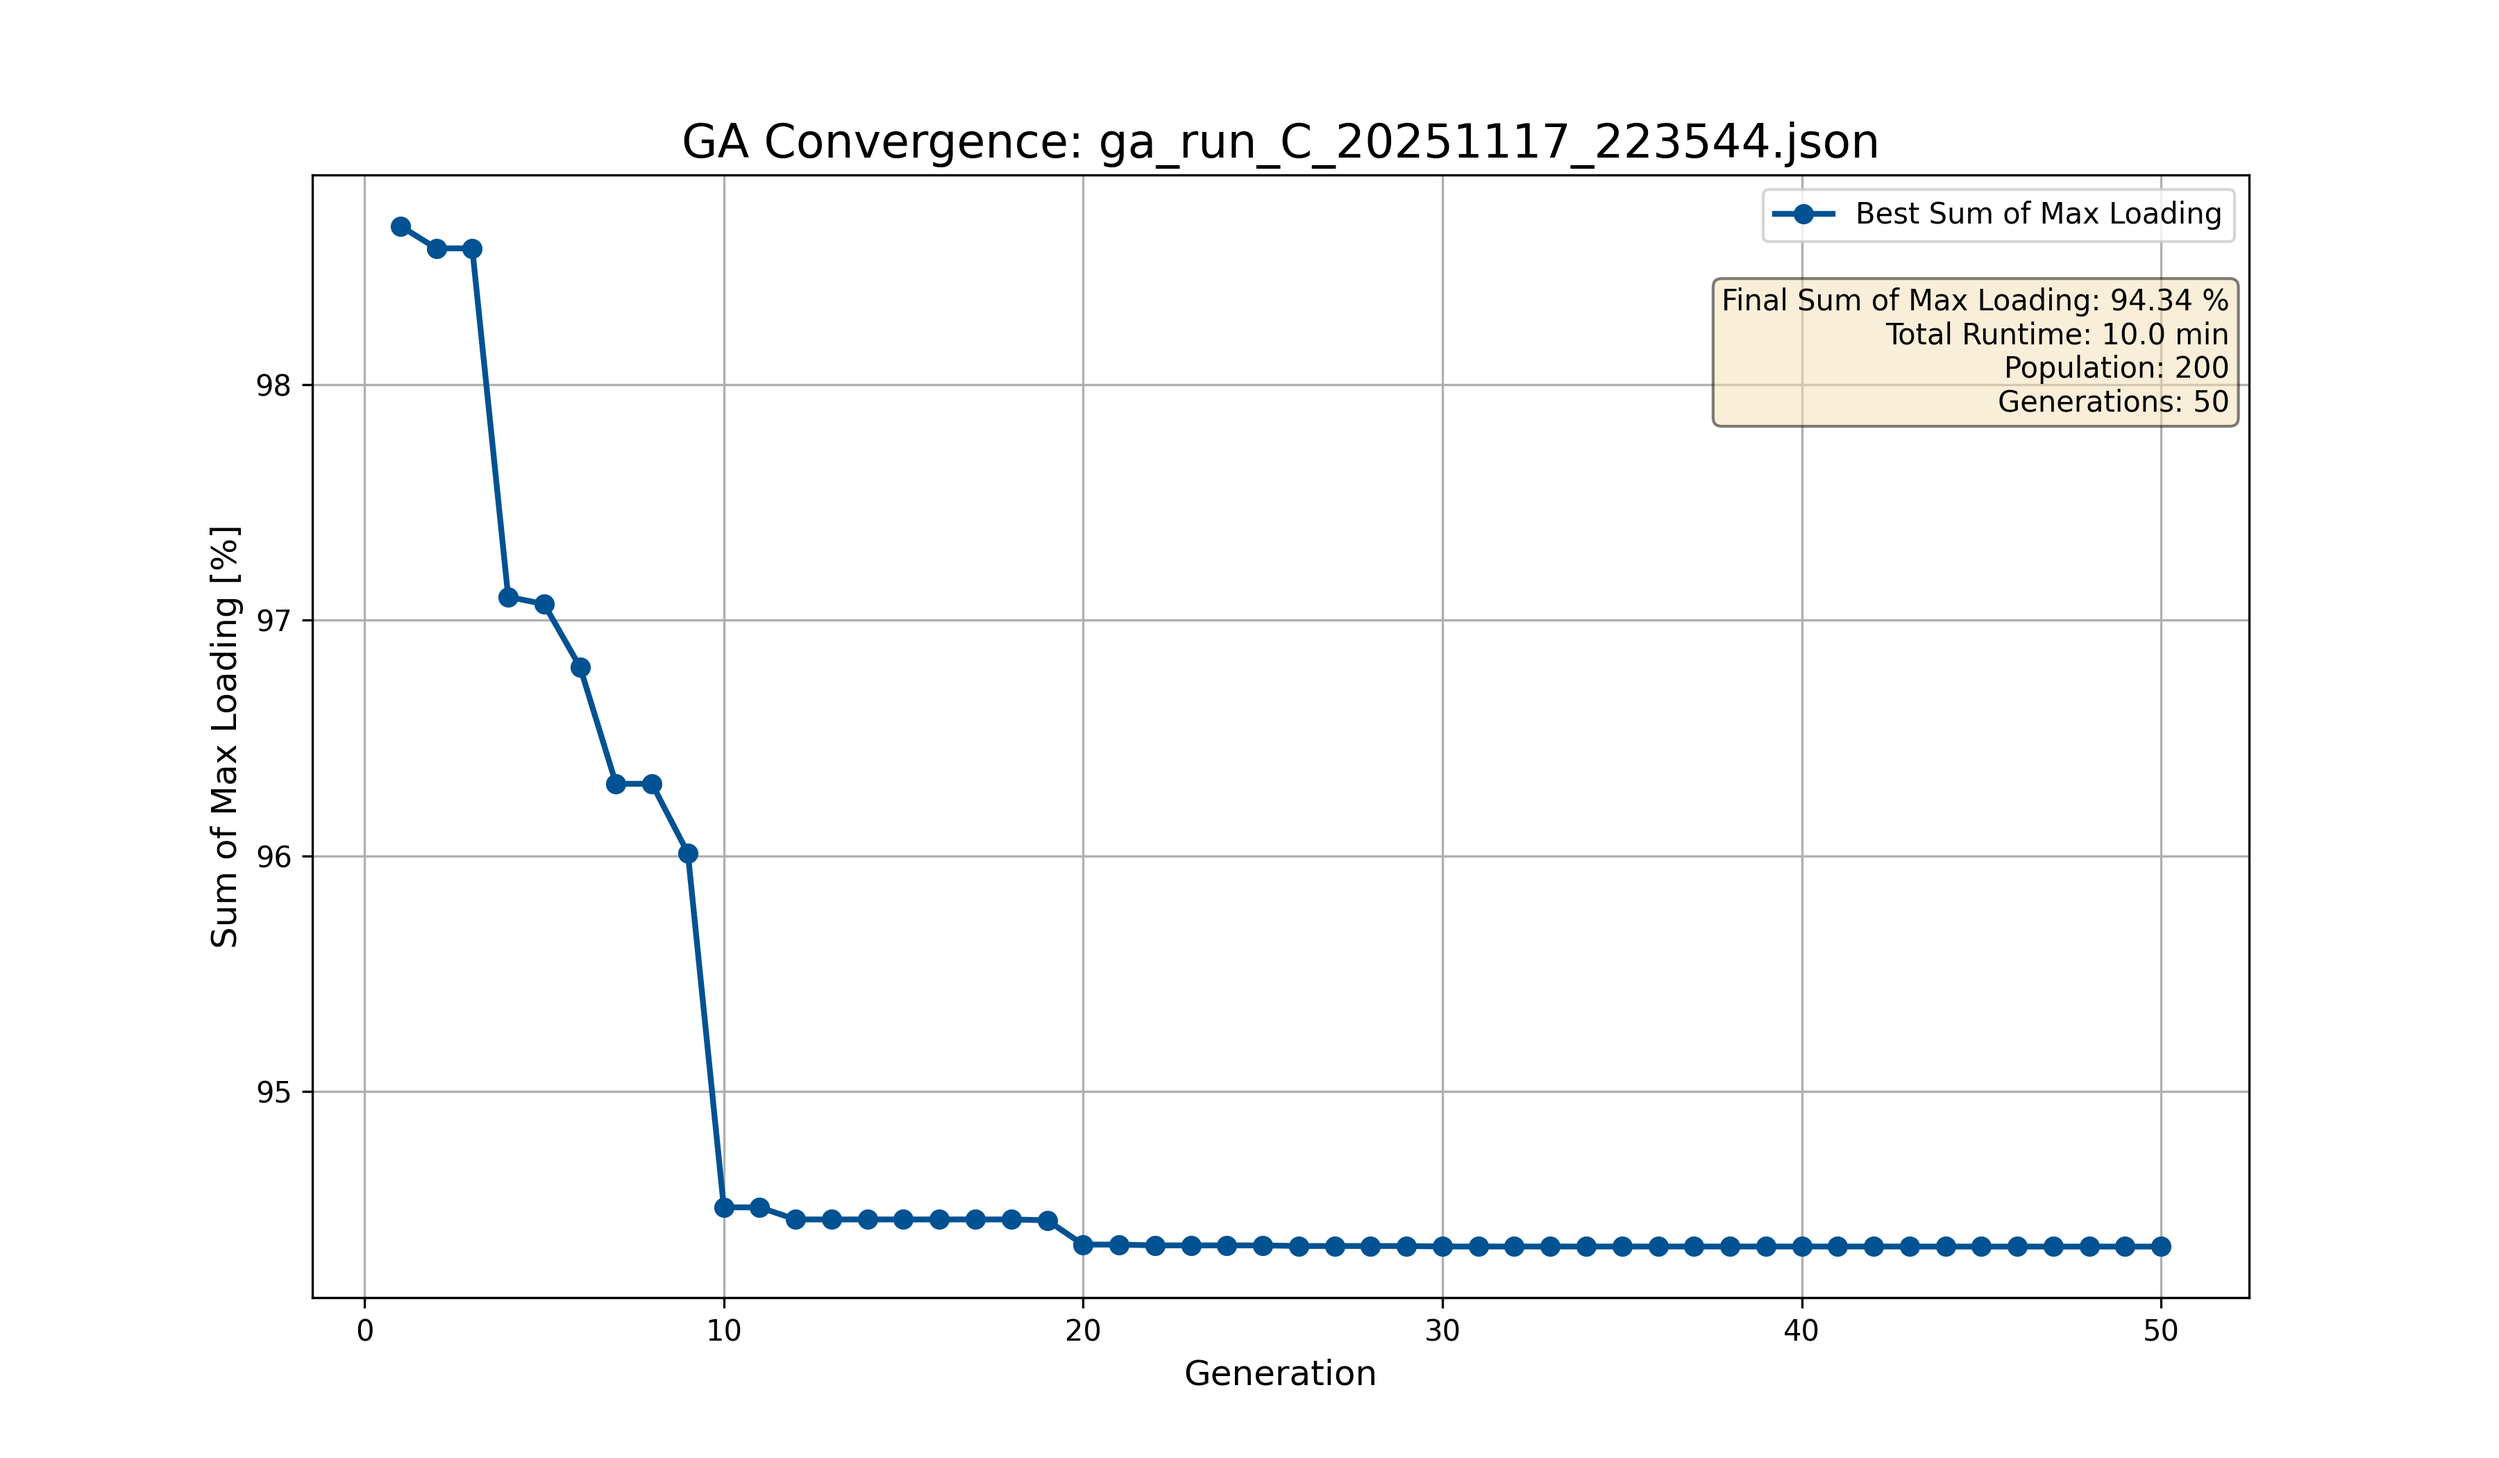
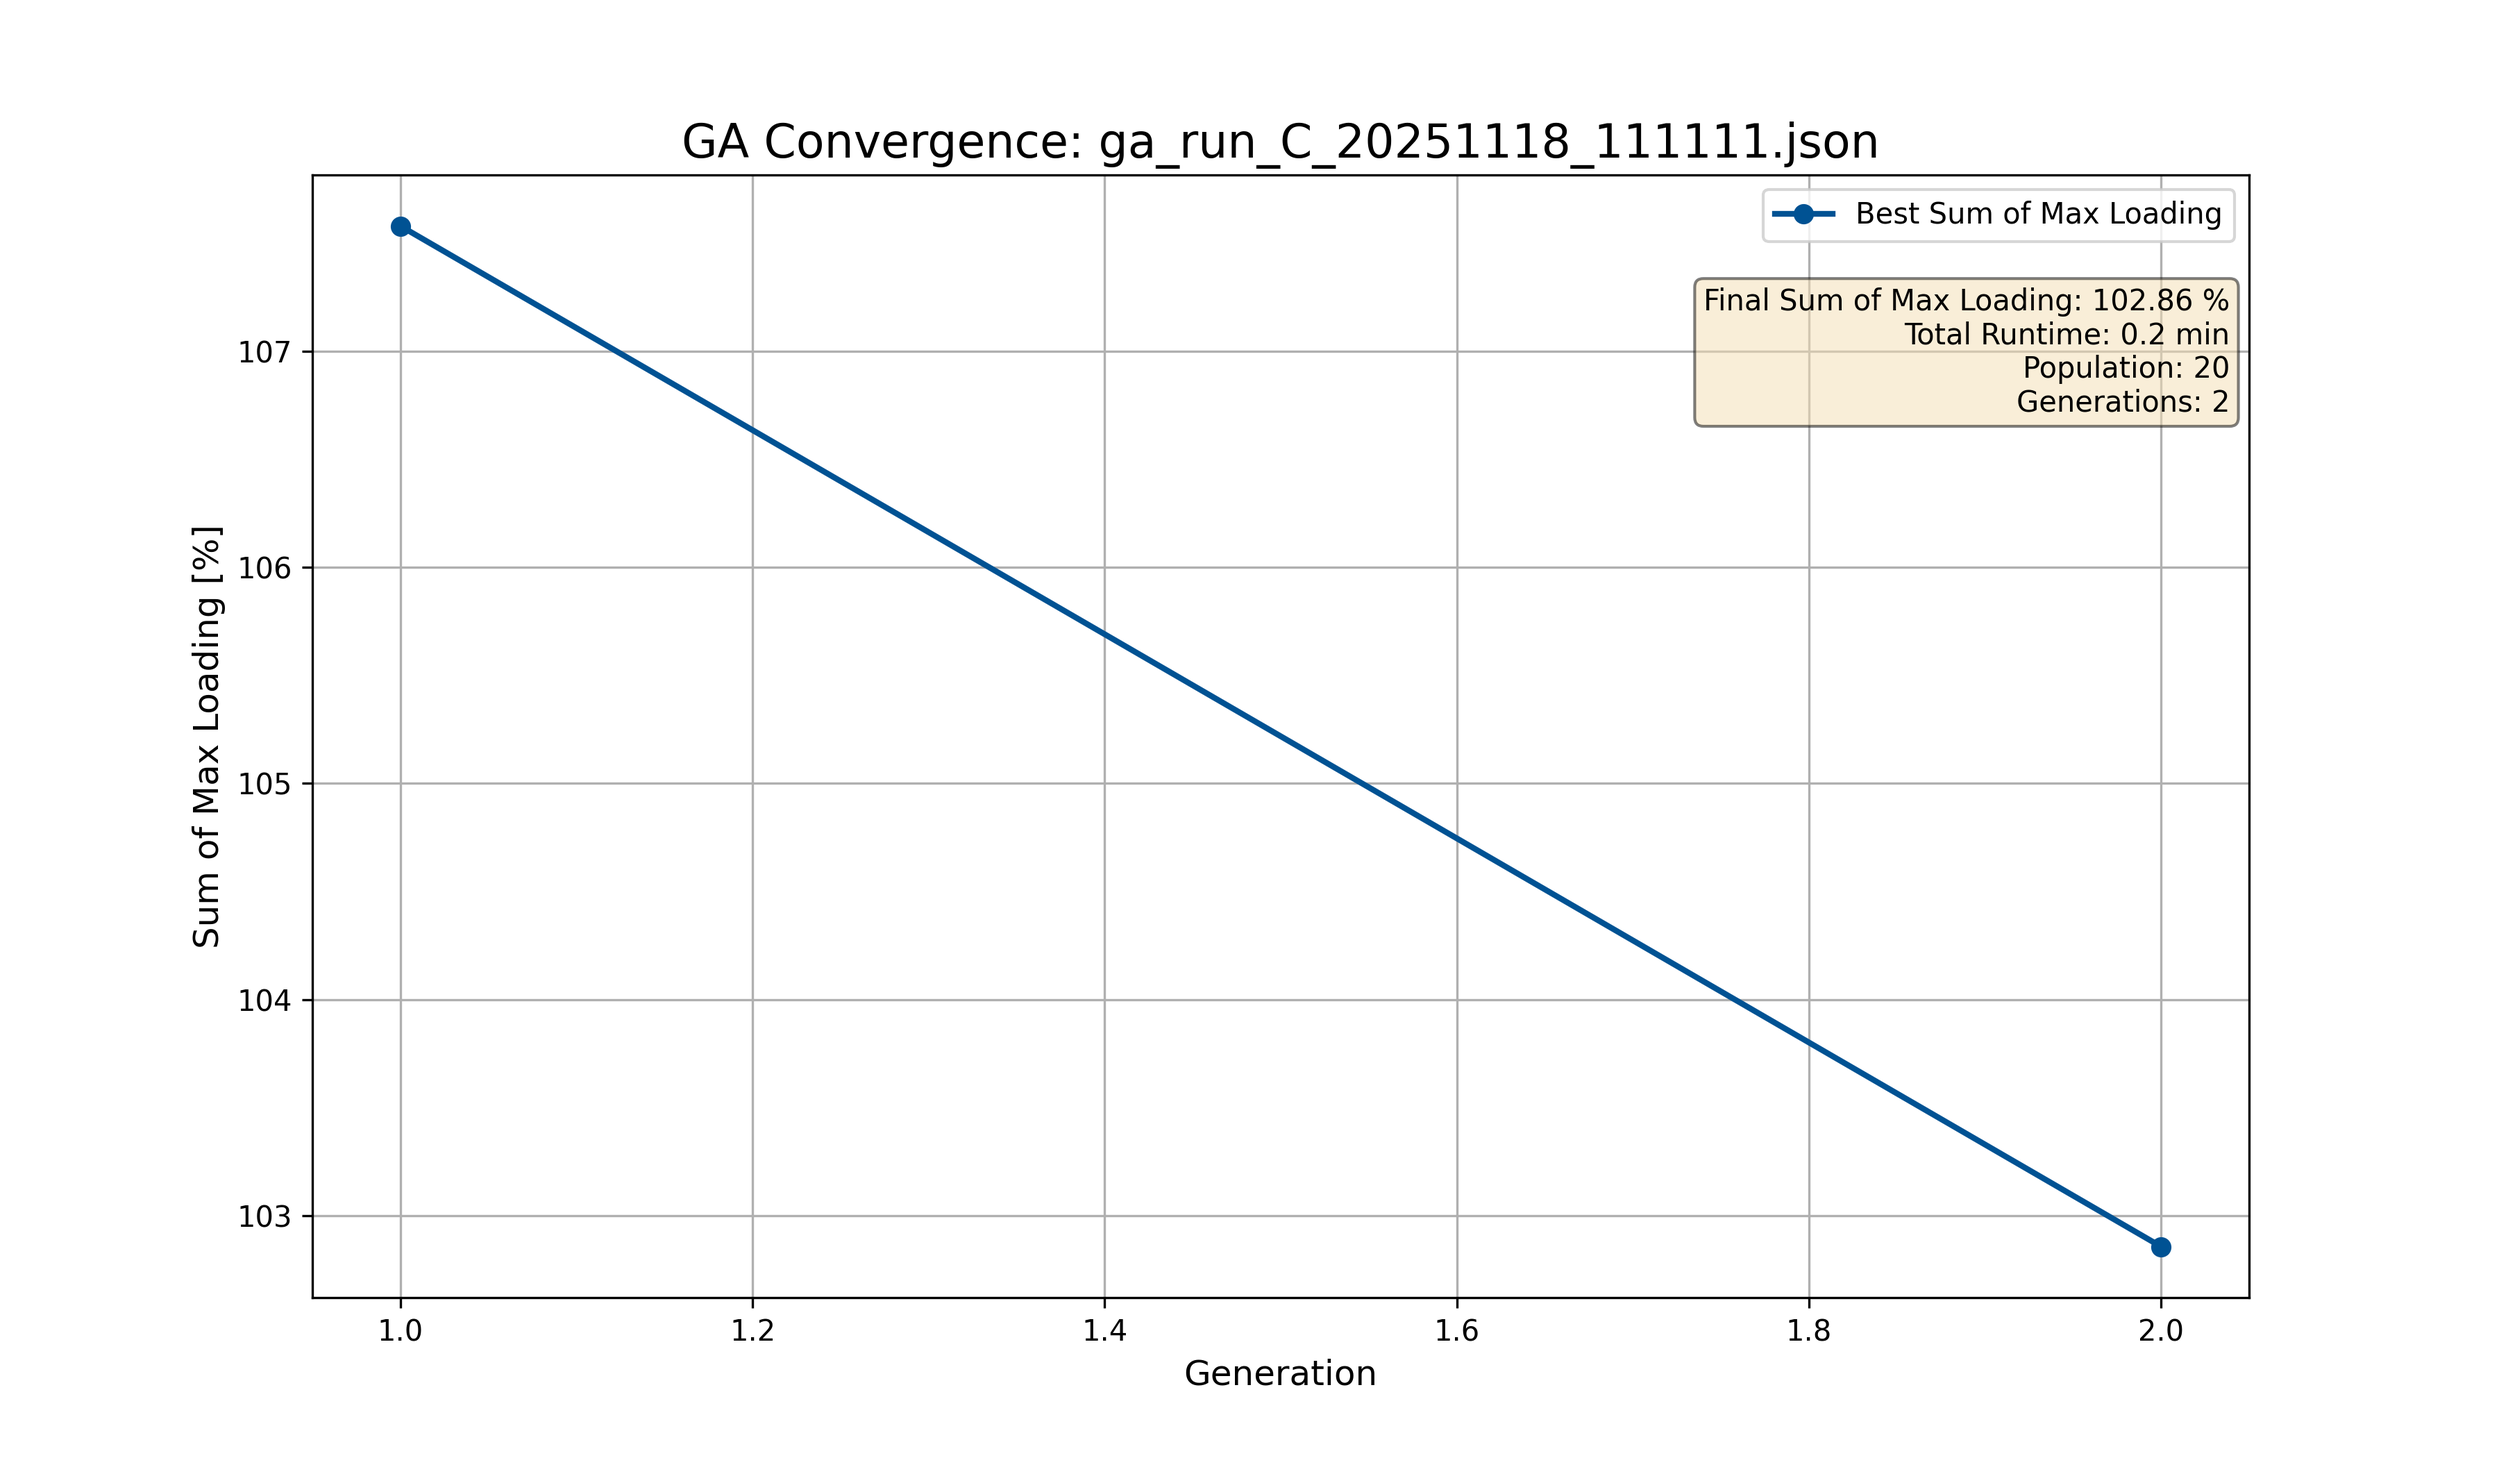
Fixed Grid C (2)

diff --git a/genetic_algorithm.py b/genetic_algorithm.py
@@ -70,7 +70,7 @@ def create_grid_B():
     
     return net
 
-def get_base_indices(net) -> tuple[list[int], list[int]]: 
+def get_base_indices(net, num_profiles=NUM_PROFILES) -> tuple[list[int], list[int]]: 
     """
     Get the order of node indices to be optimized.
     Assumes they are indexed 0 to 16.
@@ -78,8 +78,8 @@ def get_base_indices(net) -> tuple[list[int], list[int]]:
     index_order_load = list(net.load.index)
     index_order_gen = list(net.sgen.index)
 
-    if len(index_order_load) != NUM_PROFILES or len(index_order_gen) != NUM_PROFILES:
-        print(f"ERROR: Grid must have exactly {NUM_PROFILES} load/generation nodes.")
+    if len(index_order_load) != num_profiles or len(index_order_gen) != num_profiles:
+        print(f"ERROR: Grid must have exactly {num_profiles} load/generation nodes.")
     
     return tuple([index_order_load, index_order_gen]) # type: ignore
 
@@ -187,7 +187,9 @@ def tournament_selection(population: list[tuple[list[int], list[int]]],
     winner_index = np.argmax(tournament_fitnesses)
     return tournament_allocations[winner_index]
 
-def ordered_crossover(parent1_tuple: tuple[list[int], list[int]], parent2_tuple: tuple[list[int], list[int]]) -> tuple[list[int], list[int]]:
+def ordered_crossover(parent1_tuple: tuple[list[int], list[int]], 
+                      parent2_tuple: tuple[list[int], list[int]],
+                      num_profiles=NUM_PROFILES) -> tuple[list[int], list[int]]:
     """
     "Breeds" two parents allocations to create a child, preserving the permutation.
     This is called "Ordered Crossover".
@@ -195,12 +197,11 @@ def ordered_crossover(parent1_tuple: tuple[list[int], list[int]], parent2_tuple:
     1. Take a random "slice" from parent1.
     2. Fill in the child's other slots using genes from parent2, in order, skipping duplicates.
     """
-    none_list = [None] * NUM_PROFILES
+    none_list = [None] * num_profiles
     child_tuple = (none_list.copy(), none_list.copy())
 
     # 1. Select two random crossover points
-    start, end = sorted(random.sample(range(NUM_PROFILES), 2))
-
+    start, end = sorted(random.sample(range(num_profiles), 2))
     # 2. Copy the "slice" from parent1 to the child
     child_tuple[0][start:end] = parent1_tuple[0][start:end] # type: ignore
     child_tuple[1][start:end] = parent1_tuple[1][start:end]# type: ignore
@@ -213,28 +214,29 @@ def ordered_crossover(parent1_tuple: tuple[list[int], list[int]], parent2_tuple:
     
     # for load allocation
     idx = 0
-    for i in range(NUM_PROFILES):
+    for i in range(num_profiles):
         if child_tuple[0][i] is None:
             child_tuple[0][i] = parent2_items_load[idx]# type: ignore
             idx += 1
     
     idx = 0
     # for generation allocation
-    for i in range(NUM_PROFILES):
+    for i in range(num_profiles):
         if child_tuple[1][i] is None:
             child_tuple[1][i] = parent2_items_gen[idx]# type: ignore
             idx += 1
 
     return child_tuple# type: ignore
 
-def swap_mutation(allocation: tuple[list[int], list[int]]) -> tuple[list[int], list[int]]:
+def swap_mutation(allocation: tuple[list[int], list[int]],
+                  num_profiles=NUM_PROFILES) -> tuple[list[int], list[int]]:
     """
     Introduces a random change in an allocation.
     1. Pick two random indices.
     2. Swap the values at those indices.
     """
     # Operate on copies to avoid mutating the parent allocation in-place
-    idx1, idx2 = random.sample(range(NUM_PROFILES), 2)
+    idx1, idx2 = random.sample(range(num_profiles), 2)
 
     new_load = allocation[0].copy()
     new_gen = allocation[1].copy()
@@ -289,7 +291,7 @@ def run_genetic_algorithm(net,
 
     # Fill initial allocation if not provided
     if initial_allocation is None:
-        initial_allocation = get_base_indices(net)
+        initial_allocation = get_base_indices(net, num_profiles)
     
     # --- Test the fitness function ---
     print("--- Distribution Grid Genetic Algorithm Optimization Test ---")
@@ -403,21 +405,20 @@ def run_genetic_algorithm(net,
 
             # 2. Crossover - breed the parents to create a child
             if random.random() < crossover_rate:
-                child = ordered_crossover(parent1, parent2)
+                child = ordered_crossover(parent1, parent2, num_profiles)
             else:
                 # 3. No crossover, just clone parent1
                 child = parent1
 
             # 4. Mutation - randomly mutate the child
             if random.random() < mutation_rate:
-                child = swap_mutation(child)
+                child = swap_mutation(child, num_profiles)
 
             # 5. Add the child to the new population
             new_population.append(child)
         
         # The new population becomes the current population
         population = new_population
-        print(f"Size of the new genertation {len(population)}.")
 
     # --- 4. Report the overall best solution found ---
     print("\n===============================================")
